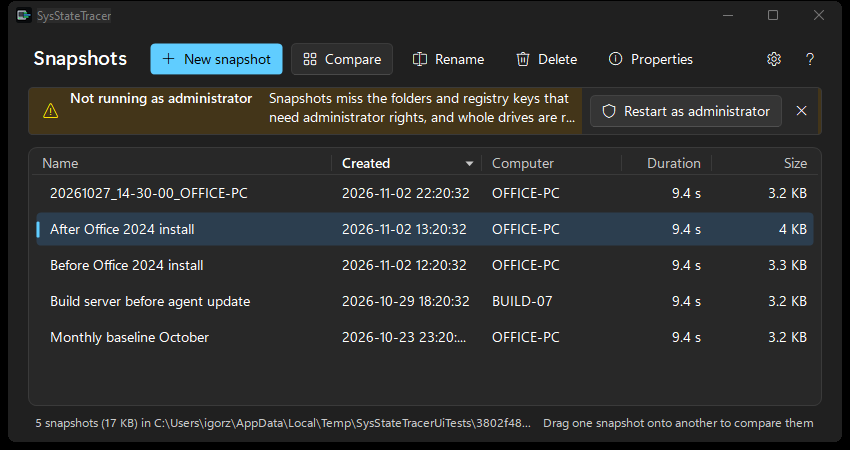
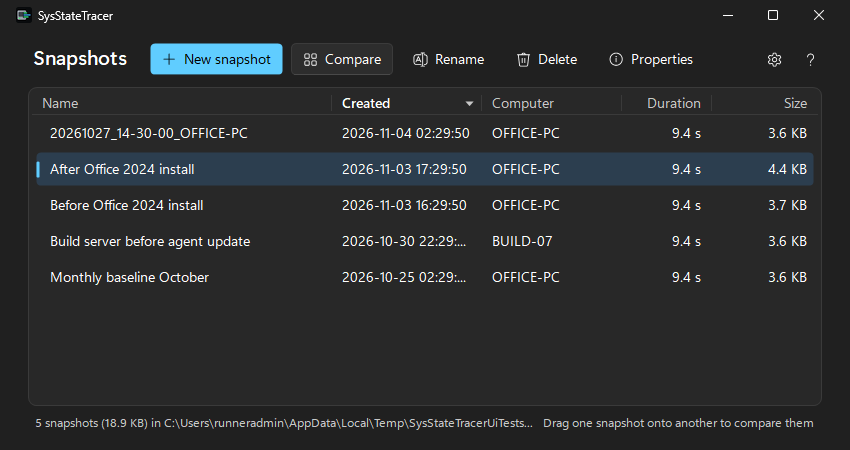
Release 1.2.2: the download is SysStateTracer.exe again
The release workflow publishes the bare exe with its SHA-256 and Manual.pdf
(no zip); README and manual link to releases/latest/download/SysStateTracer.exe
and explain Unblock on the exe. CHANGELOG section 1.2.2 dated (it takes in the
1.2.1 fix, which was only released as an rc), VersionPrefix 1.2.2. Decision D8,
release checklist and handover notes record the change and the repository move.
README screenshots refreshed from ui-preview.

diff --git a/tools/manual/make_manual.py b/tools/manual/make_manual.py
@@ -293,19 +293,18 @@ def build(screens: Screens, help_text: str, version: str, icon_folder: Path) -> 
         "(password hashes and system secrets) are left out by default.", "note"))
     story.append(p("Getting SysStateTracer", "h2"))
     story += bullets([
-        f'Download the latest <b>SysStateTracer.zip</b> directly from <a href="{LATEST}/SysStateTracer.zip" color="#005FB8">'
-        f'{LATEST}/SysStateTracer.zip</a> (older versions: <a href="{RELEASES}" color="#005FB8">{RELEASES}</a>). It holds '
-        "<b>SysStateTracer.exe</b>, a single file for Windows 10 and 11 x64; nothing needs to be installed. Extract it to "
-        "any folder you can write to.",
+        f'Download the latest <b>SysStateTracer.exe</b> directly from <a href="{LATEST}/SysStateTracer.exe" color="#005FB8">'
+        f'{LATEST}/SysStateTracer.exe</a> (older versions: <a href="{RELEASES}" color="#005FB8">{RELEASES}</a>): a single '
+        "file for Windows 10 and 11 x64; nothing needs to be installed. Put it in any folder you can write to.",
         "It starts without a UAC prompt, with your own rights, and also works for a standard user. Without "
         "administrator rights, snapshots miss the folders and registry keys only an administrator can read (New Snapshot "
         "shows them greyed out) and whole drives are read more slowly. For complete snapshots, click <b>Restart as "
         "administrator</b> in the main window.",
-        "The program is not code-signed, so Windows blocks the files of a downloaded zip and SmartScreen may say "
-        "“Windows protected your PC”. <b>Before extracting</b>, right-click the downloaded <b>SysStateTracer.zip</b>, "
-        "choose <b>Properties</b>, tick <b>Unblock</b> at the bottom of the General tab and click <b>OK</b> (shown below); "
-        "then right-click it and choose <b>Extract All</b>. The extracted exe then starts without a warning. Each release "
-        "lists the SHA-256 checksums of the zip and the exe, so you can check that they are the published ones.",
+        "The program is not code-signed, so Windows blocks a downloaded exe and SmartScreen may say "
+        "“Windows protected your PC”. <b>Before the first start</b>, right-click the downloaded <b>SysStateTracer.exe</b>, "
+        "choose <b>Properties</b>, tick <b>Unblock</b> at the bottom of the General tab and click <b>OK</b> (shown below). "
+        "It then starts without a warning. Each release lists the SHA-256 checksum of the exe, so you can check that it "
+        "is the published one.",
     ])
     story += screens.figure("unblock", "The downloaded file's Properties: (1) tick Unblock, (2) click OK.", width=70 * mm,
                             max_height=105 * mm, path=REPO / "docs" / "images" / "unblock.png")
@@ -317,7 +316,7 @@ def build(screens: Screens, help_text: str, version: str, icon_folder: Path) -> 
     story.append(table([
         ["", ""],
         ["Project, source code and documentation", f'<a href="{GITHUB}" color="#005FB8">{GITHUB}</a>'],
-        ["Latest SysStateTracer.zip", f'<a href="{LATEST}/SysStateTracer.zip" color="#005FB8">{LATEST}/SysStateTracer.zip</a>'],
+        ["Latest SysStateTracer.exe", f'<a href="{LATEST}/SysStateTracer.exe" color="#005FB8">{LATEST}/SysStateTracer.exe</a>'],
         ["Latest manual", f'<a href="{LATEST}/Manual.pdf" color="#005FB8">{LATEST}/Manual.pdf</a>'],
         ["All versions", f'<a href="{RELEASES}" color="#005FB8">{RELEASES}</a>'],
         ["Problem reports, questions and feature requests", f'<a href="{ISSUES}" color="#005FB8">{ISSUES}</a>'],

diff --git a/README.md b/README.md
@@ -7,13 +7,13 @@ snapshots to show what was created, modified or deleted in between — for examp
 
 (Inspired by SysTracer from Blue Project Software which is highly regarded and worth checking out too if you like this software)
 
-[![Download SysStateTracer.zip](https://img.shields.io/badge/Download-SysStateTracer.zip-2ea44f?style=for-the-badge&logo=windows&logoColor=white)](https://github.com/igorzakharovdev-design/SysStateTracer/releases/latest/download/SysStateTracer.zip)
+[![Download SysStateTracer.exe](https://img.shields.io/badge/Download-SysStateTracer.exe-2ea44f?style=for-the-badge&logo=windows&logoColor=white)](https://github.com/igorzakharovdev-design/SysStateTracer/releases/latest/download/SysStateTracer.exe)
 [![Download the manual](https://img.shields.io/badge/Manual-PDF-0969da?style=for-the-badge&logo=adobeacrobatreader&logoColor=white)](https://github.com/igorzakharovdev-design/SysStateTracer/releases/latest/download/Manual.pdf)
 [![Latest version](https://img.shields.io/github/v/release/igorzakharovdev-design/SysStateTracer?style=for-the-badge&label=Latest)](https://github.com/igorzakharovdev-design/SysStateTracer/releases/latest)
 
-**Before extracting:** the exe is not code-signed, so Windows blocks files from a downloaded zip. Right-click
-`SysStateTracer.zip` → **Properties**, (1) tick **Unblock** at the bottom of the General tab, and (2) click **OK**.
-Then right-click the zip → **Extract All**, and start `SysStateTracer.exe` from the extracted folder.
+**Before the first start:** the exe is not code-signed, so Windows blocks a downloaded exe. Put
+`SysStateTracer.exe` in a folder you can write to (it keeps its files beside itself), right-click it →
+**Properties**, (1) tick **Unblock** at the bottom of the General tab, and (2) click **OK**. Then double-click it.
 
 <img src="docs/images/unblock.png" alt="Properties of the downloaded file with Unblock ticked" width="360">
 
@@ -23,10 +23,10 @@ Then right-click the zip → **Extract All**, and start `SysStateTracer.exe` fro
 
 Direct links to the latest version — click to download, no GitHub account needed:
 
-- **[SysStateTracer.zip](https://github.com/igorzakharovdev-design/SysStateTracer/releases/latest/download/SysStateTracer.zip)** — the program: `SysStateTracer.exe`, one file for Windows 10 and 11 x64, nothing to install. Unblock the zip, then extract it (see above).
+- **[SysStateTracer.exe](https://github.com/igorzakharovdev-design/SysStateTracer/releases/latest/download/SysStateTracer.exe)** — the program: one file for Windows 10 and 11 x64, nothing to install. Unblock it before the first start (see above).
 - **[Manual.pdf](https://github.com/igorzakharovdev-design/SysStateTracer/releases/latest/download/Manual.pdf)** — the user manual, with screenshots.
-- [SysStateTracer.zip.sha256](https://github.com/igorzakharovdev-design/SysStateTracer/releases/latest/download/SysStateTracer.zip.sha256) — the zip's SHA-256; check it in PowerShell with
-  `(Get-FileHash .\SysStateTracer.zip).Hash`. The release notes also list the exe's own SHA-256.
+- [SysStateTracer.exe.sha256](https://github.com/igorzakharovdev-design/SysStateTracer/releases/latest/download/SysStateTracer.exe.sha256) — the exe's SHA-256; check it in PowerShell with
+  `(Get-FileHash .\SysStateTracer.exe).Hash`. The release notes list it too.
 
 Please, report any bugs or issues to the document here:
 - **[BUGS/ISSUES](https://github.com/igorzakharovdev-design/SysStateTracer/issues)**

diff --git a/CHANGELOG.md b/CHANGELOG.md
@@ -2,6 +2,12 @@
 
 ## [Unreleased]
 
+## [1.2.2] — 2026-11-05
+
+### Download
+- The download is **`SysStateTracer.exe`** itself again, not a zip: the links in the README, the manual and the release lead straight to it (with `SysStateTracer.exe.sha256` and `Manual.pdf`). Before the first start, right-click the exe → **Properties**, tick **Unblock**, click **OK**.
+- `SysStateTracer.exe` is no longer stored compressed inside itself (from 1.2.1-rc.1), so it does not look like a packed program to antivirus software: browsers could block the download of 1.2.0 with **"Virus detected"**, a false positive. The exe is 118 MB instead of 52 MB, and starts slightly faster.
+
 ### New home on GitHub
 - The project moved to **https://github.com/igorzakharovdev-design/SysStateTracer** (the old repository no longer exists). Help / About, `/?`, the manual and the README link there.
 - **Global Ignore list:** the default Remote list is now read from the new repository. Settings that still hold the old default are moved to the new one when SysStateTracer starts; a location you typed yourself is kept. Versions up to 1.2.x can no longer reach the old list and use the Local one; update, or paste the new address into Preferences there (their **Default** button still gives the old one).
@@ -34,11 +40,6 @@
 - **Comparison window:** **Show all / Only changes** tabs; the tree opens with arrows instead of dotted lines and + / − boxes, in larger text, with the changes of File system, Registry and Services as **+20 ~1 −1** in their colours; the selected folder as a path bar (C:\ › Program Files › Contoso); OLDER / NEWER as small tags.
 - **New Snapshot, Snapshot Properties, Preferences:** the window body in Mica's colours with the content on cards: the scope tree, each group of Properties, each Preferences setting and the Global Ignore list. Preferences' **General / Global Ignore list** and **Local list / Remote list** are tabs as in the comparison window. Without administrator rights New Snapshot shows the same warning bar as the main window, with **Restart as administrator** (it was a link). New Snapshot now also comes back where it was closed, not only at its size.
 - **Every dialog:** the buttons sit in a footer below a thin line, as in Windows 11 dialogs. The Properties scroll bar is dark in the dark theme.
-
-## [1.2.1]
-
-### Fixed
-- Browsers could block the download of 1.2.0 with **"Virus detected"**, a false positive. `SysStateTracer.exe` is no longer stored compressed inside itself, so it does not look like a packed program to antivirus software. The exe is now 118 MB instead of 52 MB; the download (`SysStateTracer.zip`, 47 MB) is the same size, and the program starts slightly faster.
 
 ## [1.2.0] — 2026-11-03
 

diff --git a/docs/chat-history.md b/docs/chat-history.md
@@ -72,15 +72,15 @@ Where things are:
   an STA thread, screenshots), `tests/SysStateTracer.Benchmarks`. About 400 tests.
 - CI (`.github/workflows`): `build.yml` on every push to `main` (build, tests, publish, smoke test on clean
   Windows Server 2022/2025 runners, screenshots + Manual.pdf to `ui-preview`); `release.yml` (manual dispatch with
-  a version → tag, release with `SysStateTracer.zip`, `.zip.sha256`, `Manual.pdf`, notes from `CHANGELOG.md`);
-  `repackage.yml` (move an old release's exe into a zip, rewrite its notes); `benchmark.yml`.
+  a version → tag, release with `SysStateTracer.exe`, `.exe.sha256`, `Manual.pdf`, notes from `CHANGELOG.md`);
+  `repackage.yml` (old: moved a release's exe into a zip, for 1.1.0–1.2.1); `benchmark.yml`.
 - Manual: `tools/manual/make_manual.py` (ReportLab) builds `Manual.pdf` from the CI screenshots and the `/?` text.
 
 ## 3. Key decisions (full log: `docs/decisions.md`)
 
 - **D1** .NET 10 self-contained single file; Windows 10 22H2 and Windows 11 are the test targets.
-- **D8** Unsigned; every release publishes SHA-256 checksums. **Since 1.1.0 the download is
-  `SysStateTracer.zip`** (fewer browser warnings; only the zip needs Unblock, then Extract All). No bare exe.
+- **D8** Unsigned; every release publishes SHA-256 checksums. **Since 1.2.2 the download is the bare
+  `SysStateTracer.exe`** again (owner, 5 Nov 2026); 1.1.0–1.2.1 were zip-only.
 - **D10** Whole NTFS drives from the MFT; listing elsewhere. Incremental via the USN journal.
 - **F9** No UAC prompt at start; standard users work; "Restart as administrator" for complete snapshots;
   snapshots record which rights they were taken with.
@@ -129,7 +129,10 @@ Other known loose ends (not filed as issues):
   signing for open-source projects from GitHub Actions) and report false positives at microsoft.com/wdsi/filesubmission.
 - Old links to `releases/latest/download/SysStateTracer.exe` return 404. They are only in the README of the `v1.0.0`
   tag (the 1.0.0 manual has no download links); everything current links to `releases/latest/download/SysStateTracer.zip`.
-  The owner chose (3 Nov 2026) to keep releases zip-only rather than attach the bare exe again; v1.0.0 still has its exe.
+  The owner chose (3 Nov 2026) to keep releases zip-only, then (5 Nov 2026) to publish the bare exe again from 1.2.2:
+  README and manual link to `releases/latest/download/SysStateTracer.exe`.
+- **Repository moved** (5 Nov 2026): IgorZaharov/SysStateTracer no longer exists; the project is now
+  igorzakharovdev-design/SysStateTracer. Releases before 1.2.2 and issues #6–#9 did not move (tags did).
 
 ## 6. Conventions we agreed on
 

diff --git a/docs/decisions.md b/docs/decisions.md
@@ -11,7 +11,7 @@ Confirmed by the project owner on 27 Oct 2026 (plan Step 1).
 | D5 | Non-important marks | Kept only while the comparison window is open; not saved. |
 | D6 | Repository | https://github.com/igorzakharovdev-design/SysStateTracer |
 | D7 | Elevation | ~~Manifest requests administrator rights at every launch.~~ Replaced by F9 (28 Oct 2026). |
-| D8 | Code signing | Releases are unsigned; each release publishes the exe's SHA-256. |
+| D8 | Code signing | Releases are unsigned; each release publishes the exe's SHA-256. Download: the bare `SysStateTracer.exe` up to 1.0.0, inside `SysStateTracer.zip` from 1.1.0 to 1.2.1, and the bare exe again from 1.2.2 (owner, 5 Nov 2026: the links lead straight to the exe). |
 | D9 | Default scope | All fixed drives, HKLM without SAM/SECURITY, HKU, Win32 services; kernel drivers off. |
 | D10 | Cold file-system scan | Whole NTFS drives are read from the master file table (one sequential read of the table instead of one or more reads per folder). Folder listing remains for other file systems, single-folder roots, and whenever the table cannot be read. Confirmed 27 Oct 2026; see [benchmarks.md](benchmarks.md). |
 | D11 | Name | The project is named **SysStateTracer** (renamed from SysSnapUtil on 27 Oct 2026): `SysStateTracer.exe`, repository https://github.com/igorzakharovdev-design/SysStateTracer, snapshot files `.stsnap` with the signature "STSNAP". The repository starts from one fresh commit. |

diff --git a/docs/release-checklist.md b/docs/release-checklist.md
@@ -36,7 +36,7 @@ Use the release candidate (`v1.0.0-rc.N` pre-release) and tick each row.
    **Actions → release → Run workflow** and enter the version (`1.0.0`, `1.0.0-rc.1`); the tag is then created on
    the latest commit of `main`.
 3. The `release` workflow builds, tests, checks the version the exe reports, and creates the GitHub release with
-   `SysStateTracer.zip` (the exe inside), `SysStateTracer.zip.sha256`, `Manual.pdf` and the notes from the
-   changelog (with the SHA-256 of the zip and of the exe). Since 1.1.0 the exe is not published on its own: browsers
-   warn less about a zip, and only the zip needs Unblock before extracting.
+   `SysStateTracer.exe`, `SysStateTracer.exe.sha256`, `Manual.pdf` and the notes from the changelog (with the
+   exe's SHA-256). Since 1.2.2 the exe is published on its own again (1.1.0–1.2.1 had it inside
+   `SysStateTracer.zip`); users unblock it in its Properties before the first start.
 4. If Microsoft Defender ever flags a release, submit the exe to Microsoft as a false positive.
